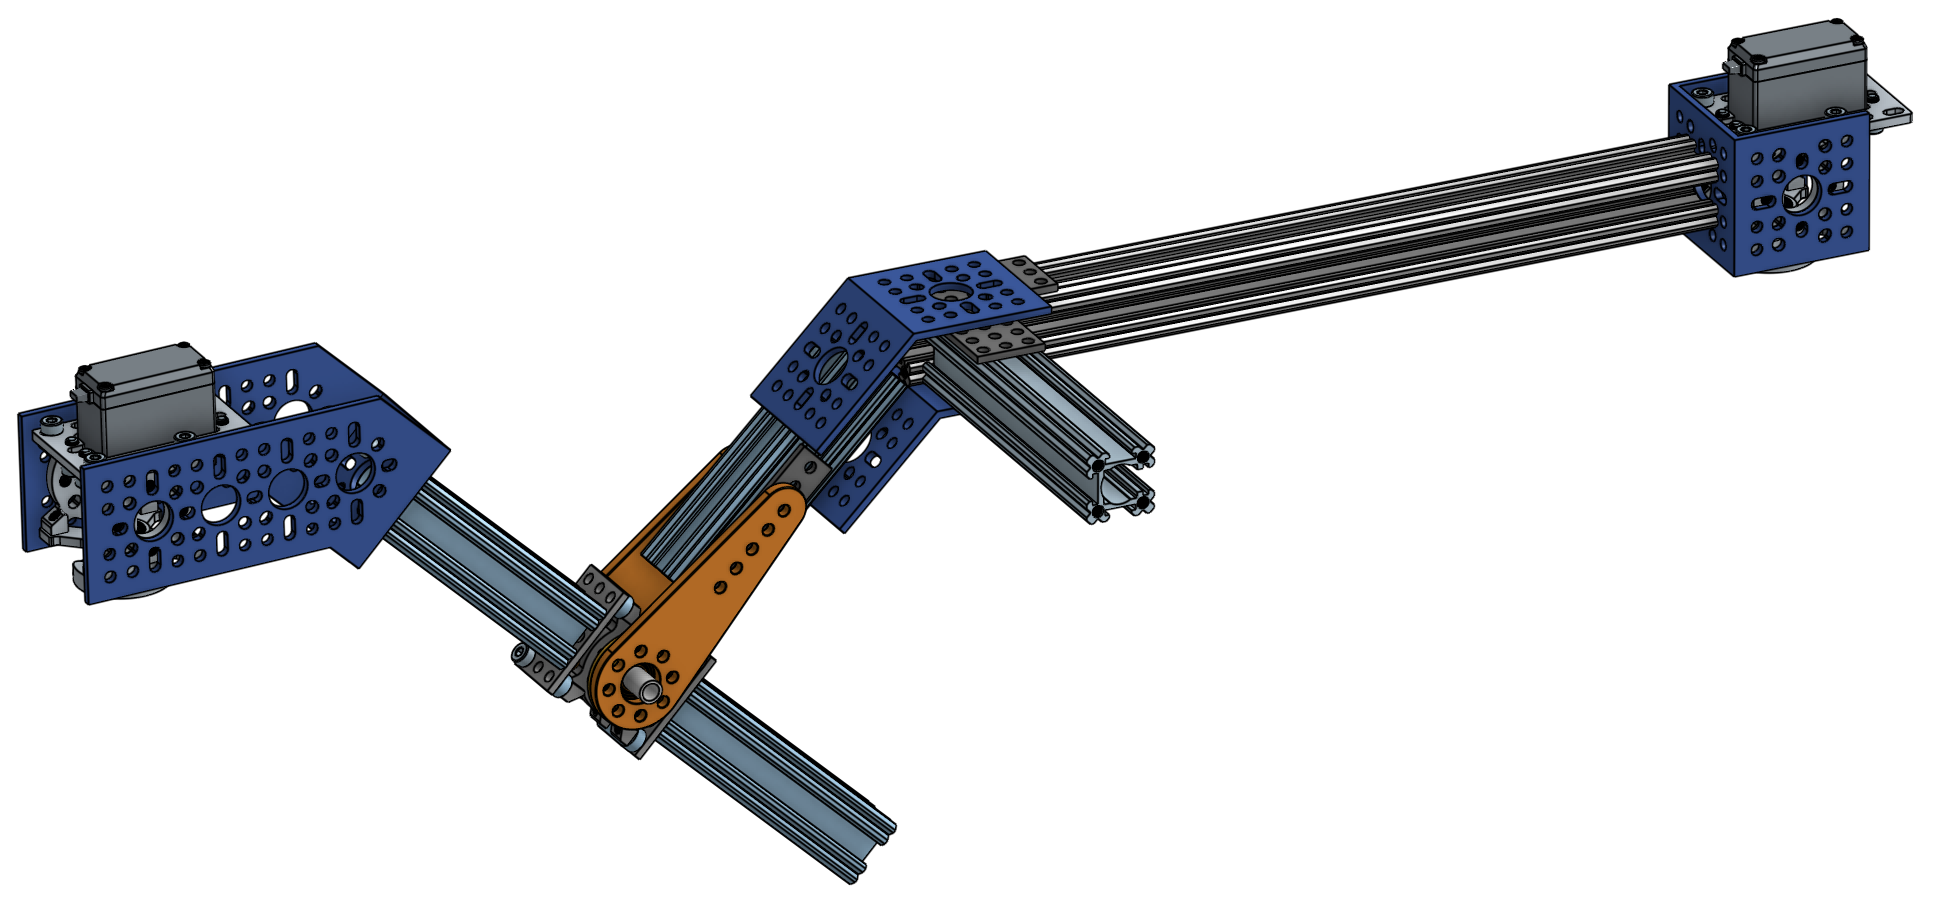
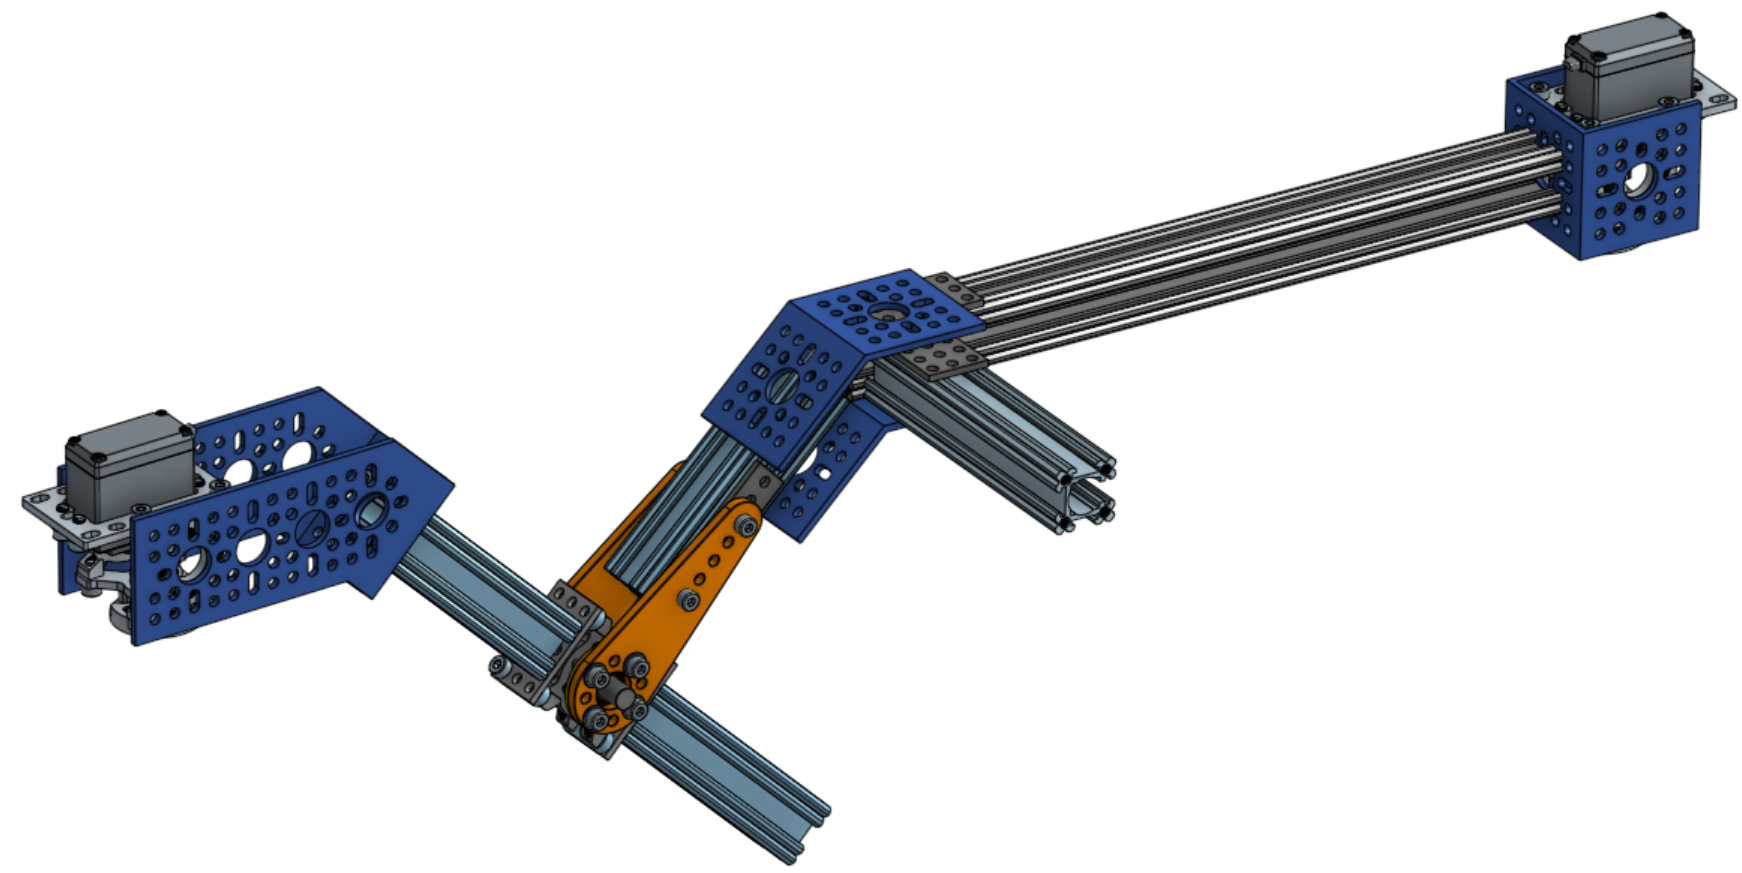
Address PR feedback; fix orientation of servo block, add wiring detail

Changed region(s): [[0.0, 0.0, 1.0, 0.9897]]

diff --git a/mechanical/rocker_bogie/README.md b/mechanical/rocker_bogie/README.md
@@ -46,9 +46,11 @@ Attach 2x length 96mm aluminum extrusions `1118-0024-0096` to the bogie joint. P
 
 ### Attach the front servo
 
-First attach bracket `1111-0003-0001` to the extruded shaft you just attached to the joint using three or four M4 screws, routing the wiring for the front servo and front motor from the servo motor through the hole and into the extruded shaft. Then assemble the servo block to the servo motor. Insert the set screw that came with the servo inside the hollow shaft that fits onto the spline profile on the servo output, but don't tighten it yet as we'll have to readjust later when calibrating the corner motors. This screw prevents the corner assembly from falling off the rocker-bogie while driving. Finally, attach the servo motor and block to the front rocker-bogie bracket. The image below shows the resulting assembly. The red line indicates where the wiring should go.
+First attach bracket `1111-0003-0001` to the extruded shaft you just attached to the joint using three or four M4 screws, routing the wiring for the front servo and front motor from the servo motor through the hole and into the extruded shaft. Then assemble the servo block to the servo motor. Insert the set screw that came with the servo inside the hollow shaft that fits onto the spline profile on the servo output, but don't tighten it yet as we'll have to readjust later when calibrating the corner motors. This screw prevents the corner assembly from falling off the rocker-bogie while driving. Finally, attach the servo motor and block to the front rocker-bogie bracket. The image below shows the resulting assembly.
 
-![bracket and bogie joint and wiring indication](images/front_servo_to_rb.png)
+| ![bracket and bogie joint](images/front_servo_to_rb.png) |
+| --- |
+|![wiring closeup](images/wiring_detail.png) |
 
 ### Connect the servo arms and shaft to the joint
 
@@ -56,11 +58,13 @@ Make sure the slit in the extruded shaft `1118-0024-0096` (same as the other two
 
 > **NOTE**: the OnShape model may represent the orientation of the slits incorrectly. In order to make the model nimble, the same rocker-bogie assembly is used on both sides of the rover which has the side-effect that the two assemblies aren't mirrorred like they are supposed to be. Always stop to think about what you're building to avoid having to take things apart later.
 
-Take one of the servo arms with bearing and hub you made in an earlier step amd attach the steel bracket, two hurricane nuts, and 4x socket screws like in the image. Repeat for the other servo arm. If the screws don't slide through the holes in the black servo arm, it might help to drill the holes out a bit.
+Take one of the servo arms with bearing and hub you made in an earlier step amd attach the steel bracket, two hurricane nuts, and 4x socket screws like in the image. Repeat for the other servo arm. If the screws don't slide freely through the holes in the black servo arm, drill the holes out to make sure the hurricane nuts rotate and lock in place in the rail.
 
 ![picture of the servo arm assembly](images/servo_arm_assembly.jpg)
 
 Place one servo arm assembly over one side of the rocker-bogie joint such that the hurricane nuts fit all the way in the channel. Tighten such that you can still slide the servo arm relative to the channel. Flip the assembly over and repeat on the other side, making sure the setup is symmetric. Now tighten the screws all the way.
+
+> **NOTE**: Consider using an extra screw and hurricane nut in the middle to strengthen the joint further
 
 ![attaching the shaft from the rocker to the bogie joint](images/rocker_extr_to_bogie_joint.png)
 
